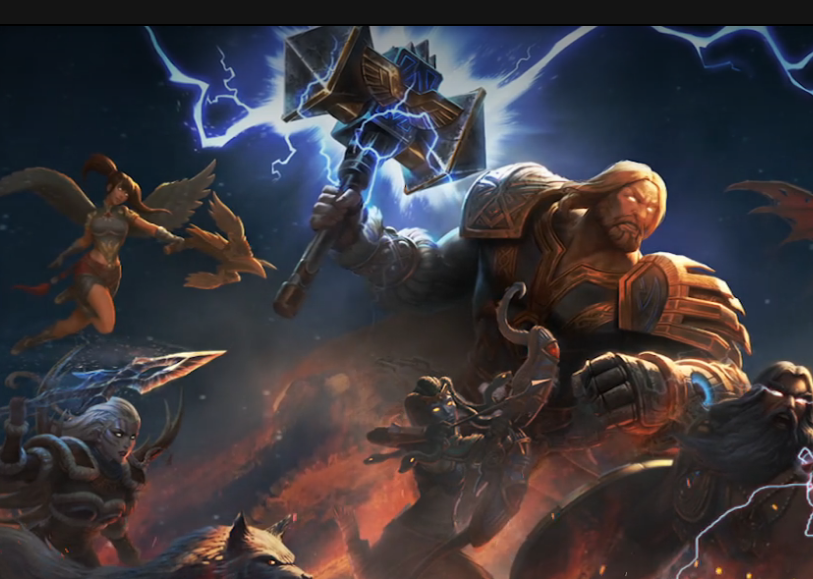
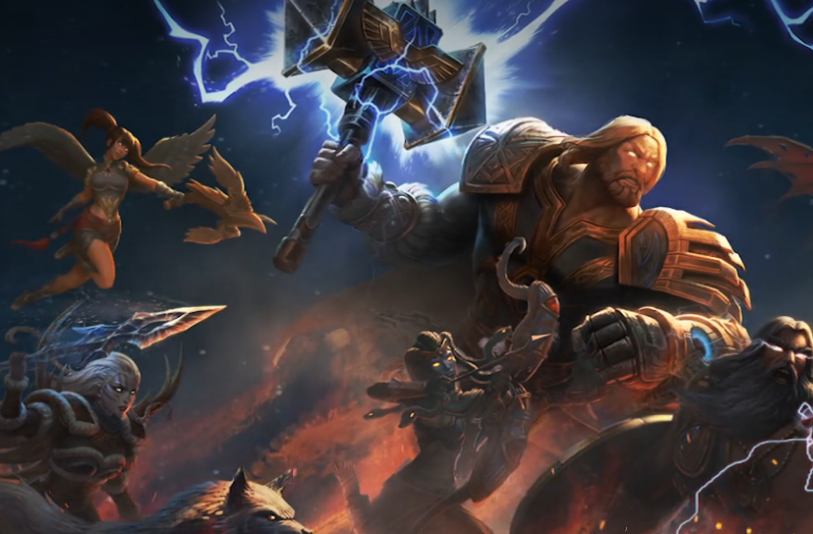
Fixed image sizing

diff --git a/src/components/GamePortal.vue b/src/components/GamePortal.vue
@@ -1,44 +1,42 @@
 <template>
- 
-    <div>
-      <b-card-group deck class="mx-auto">
-        <b-card
-          title="Underlords"
-          style="max-width: 20rem; height: 25rem;"
-          id="underlords"
-          class="mx-auto"
-        >
-          <a
-            href="#UL"
-            style="position: absolute;
-              top: 0; left: 0;
-              height: 100%; width: 100%;"
-          ></a>
-        </b-card>
-
-        <b-card
-          title="Artifact"
-          style="max-width: 20rem; height: 25rem;"
-          id="artifact"
-          class="mx-auto"
-        >
+  <div>
+    <b-card-group deck class="mx-auto">
+      <b-card
+        title="Underlords"
+        style="max-width: 20rem; height: 25rem;"
+        id="underlords"
+        class="mx-auto"
+      >
         <a
-            href="#AR"
-            style="position: absolute;
+          href="#UL"
+          style="position: absolute;
               top: 0; left: 0;
               height: 100%; width: 100%;"
-          ></a>
-        </b-card>
-        <b-card
-          title="Prophecy"
-          style="max-width: 20rem; height: 25rem;"
-          id="prophecy"
-          class="mx-auto"
-        >
-        </b-card>
-      </b-card-group>
-    </div>
+        ></a>
+      </b-card>
 
+      <b-card
+        title="Artifact"
+        style="max-width: 20rem; height: 25rem;"
+        id="artifact"
+        class="mx-auto"
+      >
+        <a
+          href="#AR"
+          style="position: absolute;
+              top: 0; left: 0;
+              height: 100%; width: 100%;"
+        ></a>
+      </b-card>
+      <b-card
+        title="Prophecy"
+        style="max-width: 20rem; height: 25rem;"
+        id="prophecy"
+        class="mx-auto"
+      >
+      </b-card>
+    </b-card-group>
+  </div>
 </template>
 
 <script>
@@ -61,6 +59,7 @@ export default {};
 #prophecy {
   background-image: url("~@/assets/unknown.png");
   background-size: cover;
+  background-position-x: -14em;
   color: white;
   padding-top: 5em;
 }

diff --git a/src/App.vue b/src/App.vue
@@ -2,6 +2,7 @@
   <div id="app">
     <Nav />
     <router-view />
+    <link rel="icon" href="../icon.ico" />
   </div>
 </template>
 
